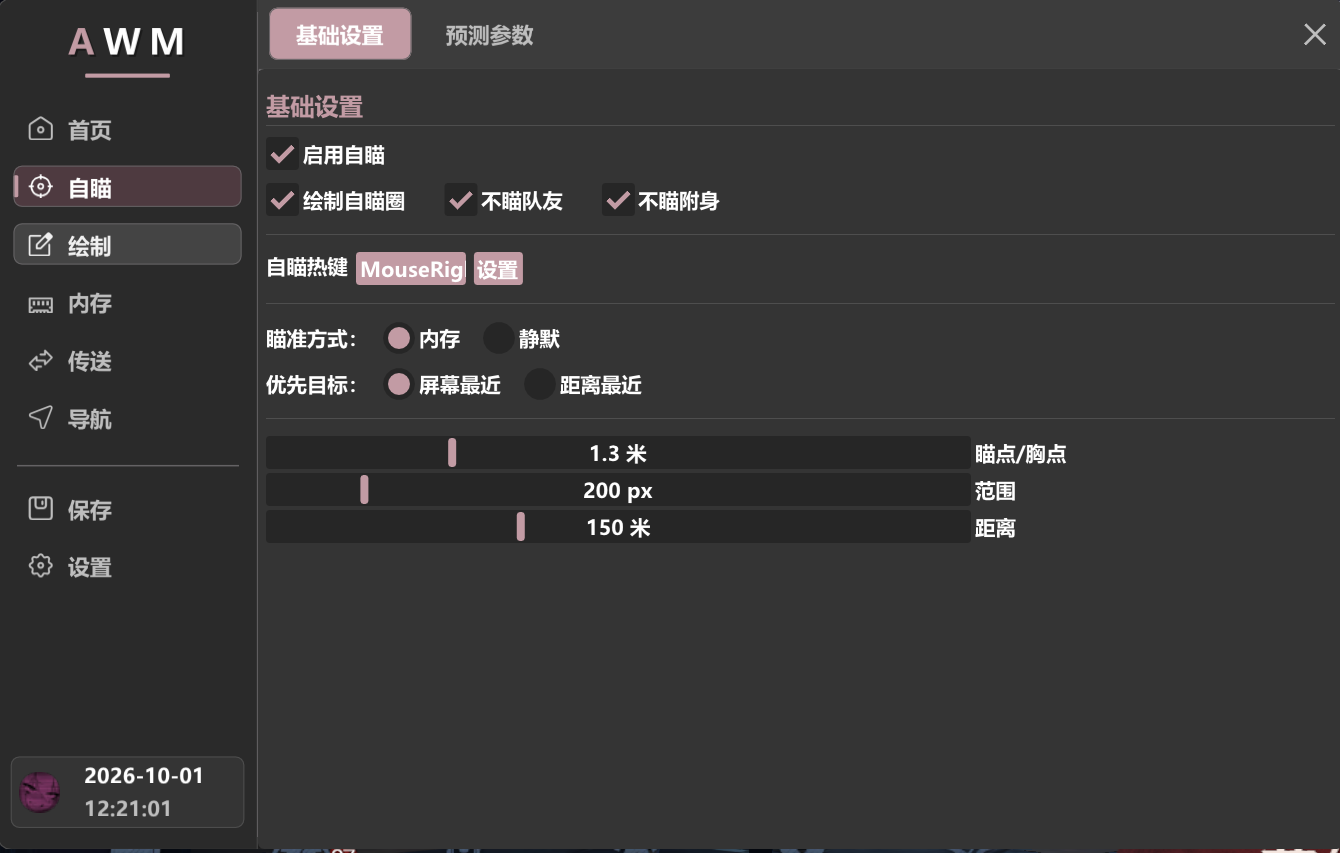
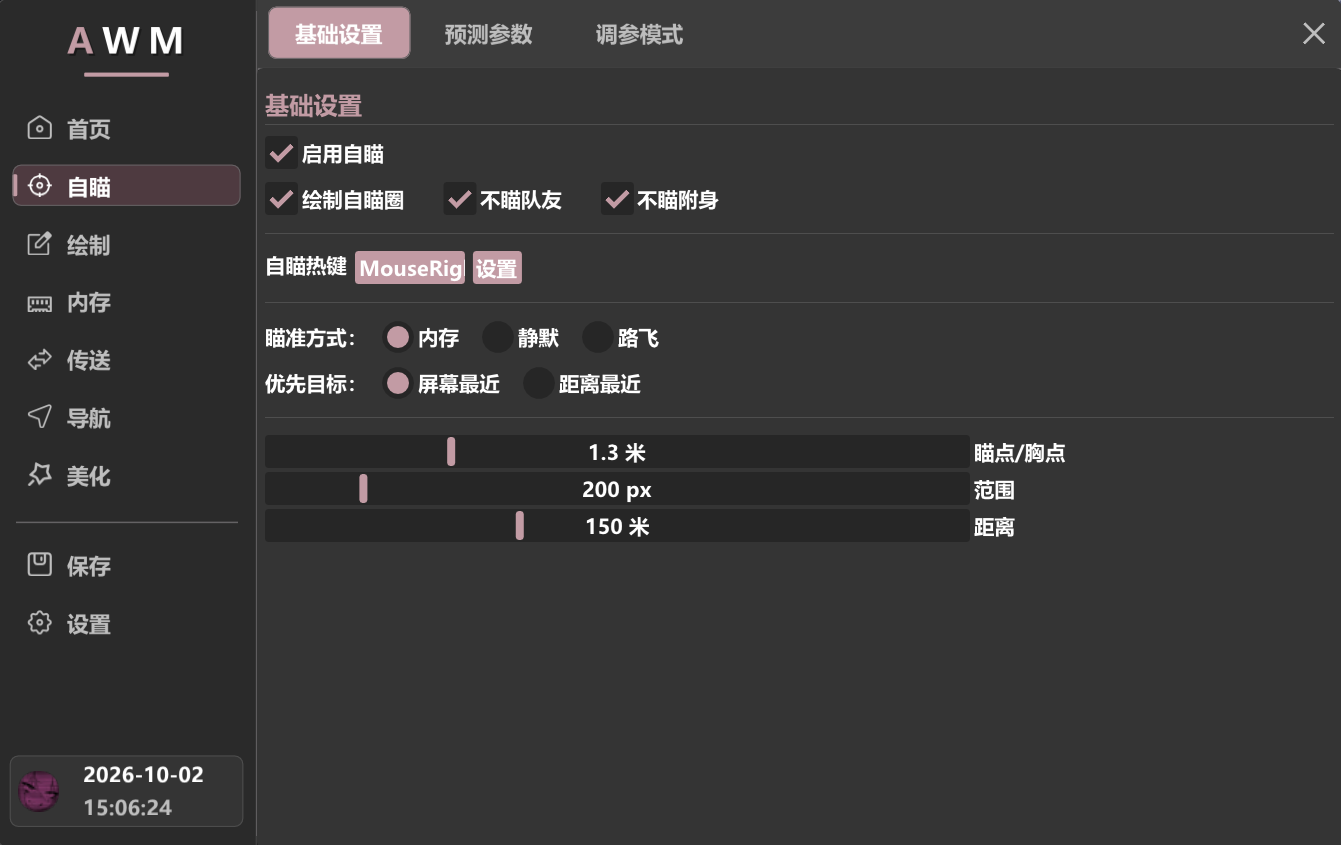
Refresh aimbot and memory utility screenshots and copy
- aimbot-basic.png: latest menu capture, adds 路飞 aim mode and the
  调参模式 tab (now three sub-tabs)
- memory-utility.png: latest menu capture, restores all four 腰包
  toggles plus 腰包设置, and shows the new 娱乐 tab
- features.html: retitle the two section headers to three sub-tabs,
  rewrite both captions from the new screenshots, extend the 弹速 tip
  with the three aim modes, add a 腰包/实用 note
- regenerate the root features.html via node build.mjs

diff --git a/src/pages/features.html b/src/pages/features.html
@@ -54,14 +54,14 @@ active: features.html
           <div class="block-head__icon">🎯</div>
           <div>
             <h2 class="block-head__title">自瞄</h2>
-            <div class="block-head__desc">基础设置 + 预测参数，两个子页签</div>
+            <div class="block-head__desc">基础设置 + 预测参数 + 调参模式，三个子页签</div>
           </div>
         </div>
 
         <div class="shot-grid" data-reveal>
           <figure class="shot">
             <img src="./assets/img/features/aimbot-basic.png" alt="自瞄 · 基础设置" width="960" height="640" loading="lazy">
-            <figcaption>基础设置 — 内存 / 静默 · 热键 · 范围与距离</figcaption>
+            <figcaption>基础设置 — 内存 / 静默 / 路飞三种瞄准方式 · 不瞄队友与附身 · 范围 200px / 距离 150 米</figcaption>
           </figure>
           <figure class="shot">
             <img src="./assets/img/features/aimbot-predict.png" alt="自瞄 · 预测参数" width="960" height="640" loading="lazy">
@@ -73,7 +73,8 @@ active: features.html
           <span>💡</span>
           <div>
             <b>弹速怎么调：</b>数值越大提前越少，打不中可略调低。
-            静默更适合近战局，内存更稳。
+            瞄准方式三选一 —— 内存最稳、静默适合近战局、路飞适合大幅拉枪；
+            细调可切到 <b>调参模式</b>。
           </div>
         </div>
       </div>
@@ -114,7 +115,7 @@ active: features.html
           <div class="block-head__icon">⚡</div>
           <div>
             <h2 class="block-head__title">内存</h2>
-            <div class="block-head__desc">视觉 / 实用，两个子页签</div>
+            <div class="block-head__desc">视觉 / 实用 / 娱乐，三个子页签</div>
           </div>
         </div>
 
@@ -125,7 +126,7 @@ active: features.html
           </figure>
           <figure class="shot">
             <img src="./assets/img/features/memory-utility.png" alt="内存 · 实用" width="960" height="640" loading="lazy">
-            <figcaption>实用 — 无后座 / 秒交互 / 一键开棺 · 一键发力</figcaption>
+            <figcaption>实用 — 武器 / 腰包 / 实用 / 快捷操作四组 · 一键开棺 · 一键发力 · 自动开火</figcaption>
           </figure>
         </div>
 
@@ -133,6 +134,14 @@ active: features.html
           <span>⚠</span>
           <div>
             <b>互斥说明：</b>「物品栏切枪」与「腰包切枪」不要同时开。
+          </div>
+        </div>
+
+        <div class="note mt-4" data-reveal>
+          <span>💡</span>
+          <div>
+            <b>腰包与实用：</b>腰包切枪 / 换弹 / 换喷 / 换符，配合
+            <b>腰包设置</b> 调顺序；自动开火与灵魂出窍各有独立展开设置，按需开启。
           </div>
         </div>
       </div>

diff --git a/features.html b/features.html
@@ -190,14 +190,14 @@
           <div class="block-head__icon">🎯</div>
           <div>
             <h2 class="block-head__title">自瞄</h2>
-            <div class="block-head__desc">基础设置 + 预测参数，两个子页签</div>
+            <div class="block-head__desc">基础设置 + 预测参数 + 调参模式，三个子页签</div>
           </div>
         </div>
 
         <div class="shot-grid" data-reveal>
           <figure class="shot">
             <img src="./assets/img/features/aimbot-basic.png" alt="自瞄 · 基础设置" width="960" height="640" loading="lazy">
-            <figcaption>基础设置 — 内存 / 静默 · 热键 · 范围与距离</figcaption>
+            <figcaption>基础设置 — 内存 / 静默 / 路飞三种瞄准方式 · 不瞄队友与附身 · 范围 200px / 距离 150 米</figcaption>
           </figure>
           <figure class="shot">
             <img src="./assets/img/features/aimbot-predict.png" alt="自瞄 · 预测参数" width="960" height="640" loading="lazy">
@@ -209,7 +209,8 @@
           <span>💡</span>
           <div>
             <b>弹速怎么调：</b>数值越大提前越少，打不中可略调低。
-            静默更适合近战局，内存更稳。
+            瞄准方式三选一 —— 内存最稳、静默适合近战局、路飞适合大幅拉枪；
+            细调可切到 <b>调参模式</b>。
           </div>
         </div>
       </div>
@@ -250,7 +251,7 @@
           <div class="block-head__icon">⚡</div>
           <div>
             <h2 class="block-head__title">内存</h2>
-            <div class="block-head__desc">视觉 / 实用，两个子页签</div>
+            <div class="block-head__desc">视觉 / 实用 / 娱乐，三个子页签</div>
           </div>
         </div>
 
@@ -261,7 +262,7 @@
           </figure>
           <figure class="shot">
             <img src="./assets/img/features/memory-utility.png" alt="内存 · 实用" width="960" height="640" loading="lazy">
-            <figcaption>实用 — 无后座 / 秒交互 / 一键开棺 · 一键发力</figcaption>
+            <figcaption>实用 — 武器 / 腰包 / 实用 / 快捷操作四组 · 一键开棺 · 一键发力 · 自动开火</figcaption>
           </figure>
         </div>
 
@@ -269,6 +270,14 @@
           <span>⚠</span>
           <div>
             <b>互斥说明：</b>「物品栏切枪」与「腰包切枪」不要同时开。
+          </div>
+        </div>
+
+        <div class="note mt-4" data-reveal>
+          <span>💡</span>
+          <div>
+            <b>腰包与实用：</b>腰包切枪 / 换弹 / 换喷 / 换符，配合
+            <b>腰包设置</b> 调顺序；自动开火与灵魂出窍各有独立展开设置，按需开启。
           </div>
         </div>
       </div>
